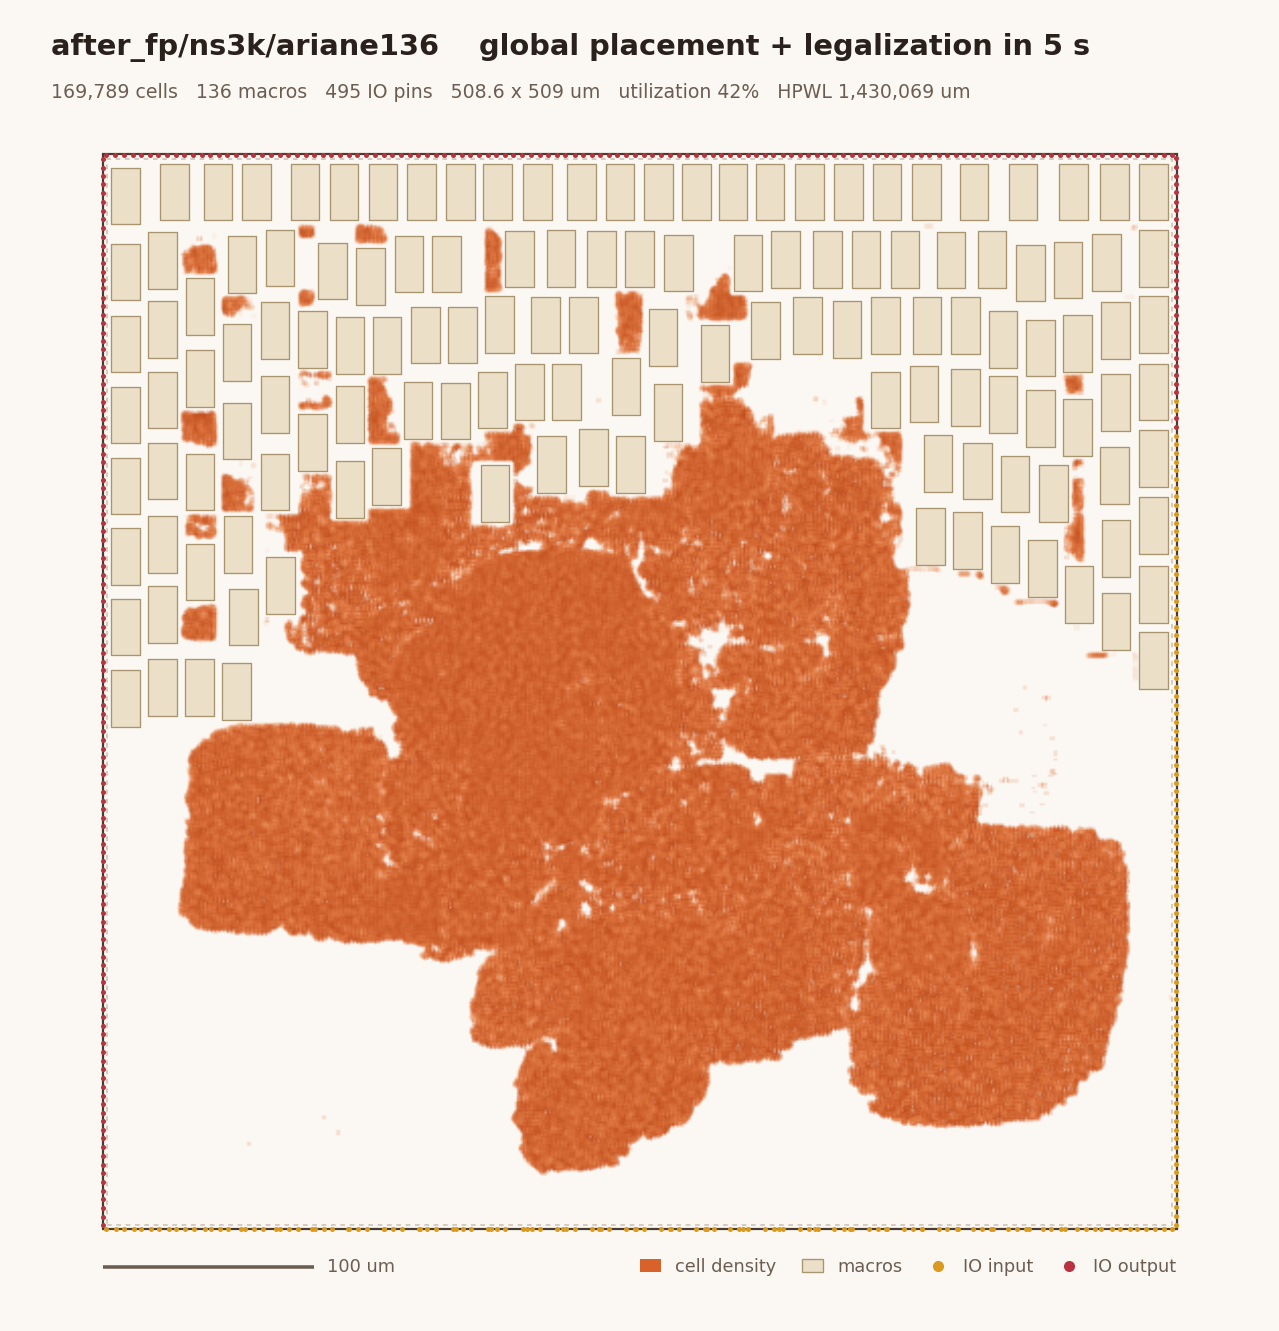
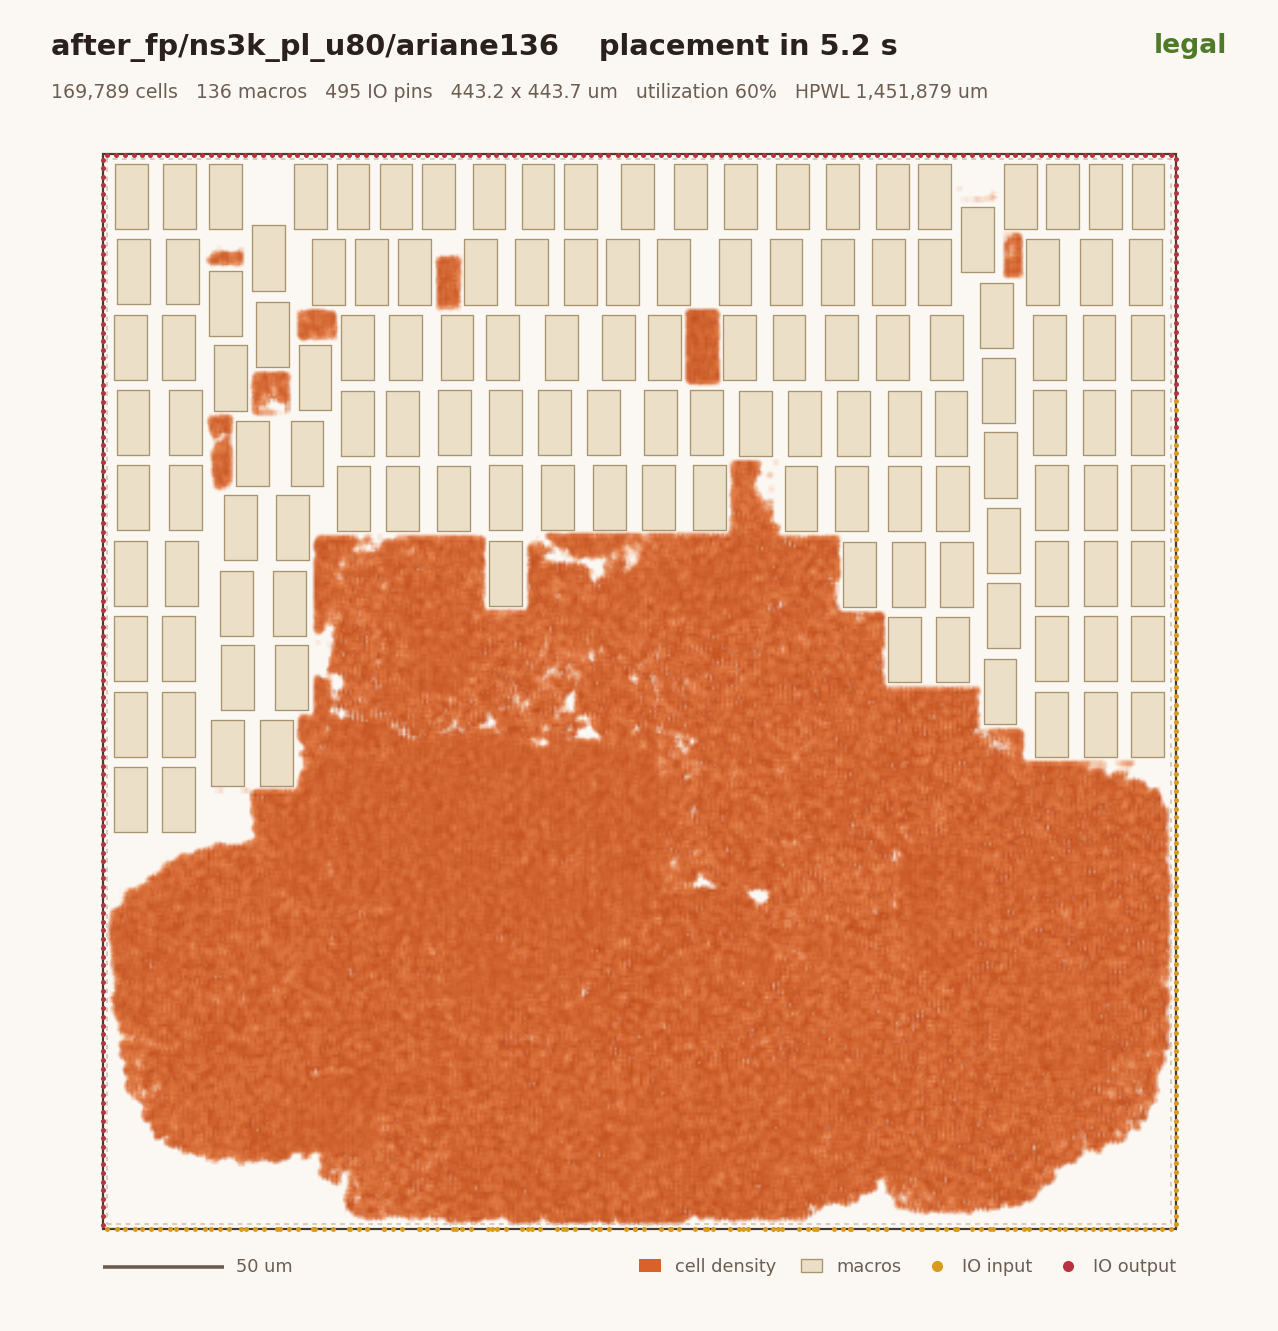
Gallery: two floorplans, cva6, and ariane136 at 80% density
Top row: floorplan mode, B*-tree packing with the connections drawn (GSRC n300 at 85% block area, MCNC ami49 at
80%). Bottom row: cva6 (ASAP7) and ariane136 on the NS3K floorplan at 80% std-cell density, which OpenROAD's
check_placement and global routing also pass. bigblue4 and the sparse bp_quad leave the gallery.
tools/make_readme_figures.py --gallery [name ...] redraws all or some.

diff --git a/tools/make_readme_figures.py b/tools/make_readme_figures.py
@@ -1,7 +1,8 @@
 #!/usr/bin/env python3
 """Figures for README.md (docs/images):
   proxy_agreement.png               how often routed WL moves the same way as HPWL, by HPWL gap (pa_pdn, spec 7.1)
-  gallery/*.png                     designs placed by attar.naive (run with --gallery; needs the zoo and a GPU)"""
+  gallery/*.png                     designs placed by attar.naive (run with --gallery [name ...]: all, or those
+                                    figures, e.g. --gallery bp_quad; needs the zoo and a GPU)"""
 import io
 import contextlib
 import os
@@ -51,24 +52,26 @@ def proxy_agreement(mode):
     print('wrote', out)
 
 
-def gallery():
+def gallery(only=()):
     sys.path.insert(0, ROOT)
     import time
     import attar
-    jobs = [('after_fp/stress/bp_quad', 'bp_quad.png', 'place'), ('after_fp/ns3k/ariane136', 'ariane136.png', 'place'),
-            ('after_fp/ispd2005/bigblue4', 'bigblue4.png', 'place')]
-    for name, fn, how in jobs:
+    # (zoo name, file, what runs, its arguments): two floorplan problems (the die for a block area, IO pins and blocks
+    # by B*-tree packing; the cva6 placement comes from tools/make_demo_gif.py) and a placement problem
+    jobs = [('before_fp/gsrc_hard/n300', 'fp_n300.png', 'floorplan', dict(utilization=0.85, packing=True)),
+            ('before_fp/mcnc/ami49', 'fp_ami49.png', 'floorplan', dict(utilization=0.80, packing=True)),
+            ('after_fp/ns3k_pl_u80/ariane136', 'ariane136.png', 'place', {})]
+    for name, fn, how, kw in jobs:
+        if only and fn[:-4] not in only:
+            continue
         d = attar.load(name, 'cuda'); t = time.time()
         with contextlib.redirect_stdout(io.StringIO()):
-            if how == 'scratch':                         # the die, IO pins, macros and cells from scratch
-                d.floorplan(utilization=float(d.utilization()[0])); d.place()
-            elif how == 'floorplan':
-                d.floorplan()
+            if how == 'floorplan':
+                d.floorplan(**kw)
             else:
-                d.unplace(); d.place()
+                d.unplace(); d.place(**kw)
         sec = time.time() - t
-        title = '%s    %s in %.0f s' % (name, {'scratch': 'die, IO, macros, cells from scratch', 'floorplan': 'floorplan',
-                                               'place': 'global placement + legalization'}[how], sec)
+        title = '%s    %s in %.1f s' % (name, {'floorplan': 'floorplan', 'place': 'placement'}[how], sec)
         os.makedirs(os.path.join(IMG, 'gallery'), exist_ok=True)
         d.plot(os.path.join(IMG, 'gallery', fn), title=title, dpi=160)
         print('wrote', fn, title)
@@ -79,4 +82,4 @@ if __name__ == '__main__':
     os.makedirs(IMG, exist_ok=True)
     proxy_agreement('light')
     if '--gallery' in sys.argv:
-        gallery()
+        gallery(sys.argv[sys.argv.index('--gallery') + 1:])

diff --git a/README.md b/README.md
@@ -135,23 +135,24 @@ More: [concepts](docs/concepts.md) · [benchmarks](docs/benchmarks.md) · [slow 
 
 <table>
 <tr>
-<td width="50%"><img src="docs/images/gallery/bigblue4.png" alt="ISPD 2005 bigblue4 placed by attar.naive"></td>
-<td width="50%"><img src="docs/images/gallery/bp_quad.png" alt="bp_quad placed by attar.naive"></td>
+<td width="50%"><img src="docs/images/gallery/fp_n300.png" alt="GSRC n300 floorplanned by attar.naive with B*-tree packing"></td>
+<td width="50%"><img src="docs/images/gallery/fp_ami49.png" alt="MCNC ami49 floorplanned by attar.naive with B*-tree packing"></td>
 </tr>
 <tr>
-<td><sub><b>ISPD 2005 bigblue4</b>: 2.18M cells, 8170 fixed macros. Global placement and legalization in 48 s.</sub></td>
-<td><sub><b>bp_quad</b> (4x BlackParrot, 3nm-class NS3K): 1.18M cells around 220 macros in 82 s, legal including
-power rails and the PDN's via metal.</sub></td>
+<td><sub><b>GSRC n300</b> (floorplan mode): 300 hard blocks and 569 IO pins, no die given. Attar sizes one for 85% block
+area and packs the blocks (B*-tree) in 46 s: legal, HPWL 565k.</sub></td>
+<td><sub><b>MCNC ami49</b> (floorplan mode): 49 blocks of very different sizes in a die sized for 80% block area,
+packed in 2.3 s: legal, HPWL 948k.</sub></td>
 </tr>
 <tr>
 <td><img src="docs/images/gallery/cva6.png" alt="cva6 placed by attar.naive"></td>
-<td><img src="docs/images/gallery/ariane136.png" alt="ariane136 on NS3K placed by attar.naive"></td>
+<td><img src="docs/images/gallery/ariane136.png" alt="ariane136 on NS3K at 80% density placed by attar.naive"></td>
 </tr>
 <tr>
-<td><sub><b>cva6</b> (ASAP7, ORFS global placement stage): 121k cells around 8 SRAMs in 2.3 s. ORFS routes it with
+<td><sub><b>cva6</b> (ASAP7, ORFS global placement stage): 121k cells around 8 SRAMs in 2.5 s. ORFS routes it with
 0 DRC and 7.4% less wire than its own placement.</sub></td>
-<td><sub><b>ariane136</b> (NS3K): 170k cells around 136 SRAMs in 5 s, legal including power rails and the PDN.
-Innovus's floorplan cuts the rows only at the macros.</sub></td>
+<td><sub><b>ariane136</b> (NS3K, Innovus floorplan at 80% std-cell density): 170k cells around 136 SRAMs in 5.2 s,
+legal including power rails and the PDN; OpenROAD's <code>check_placement</code> and global routing pass.</sub></td>
 </tr>
 </table>
 
